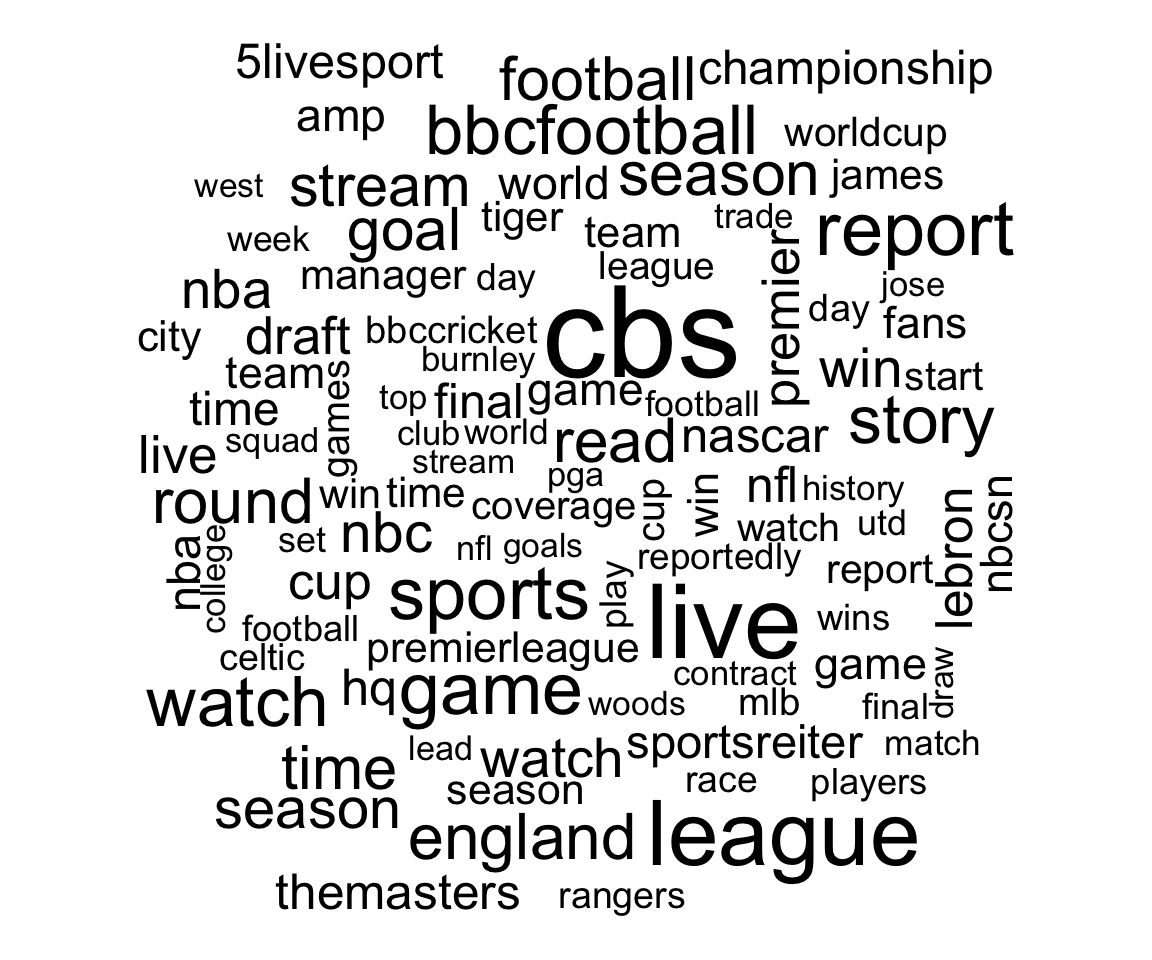
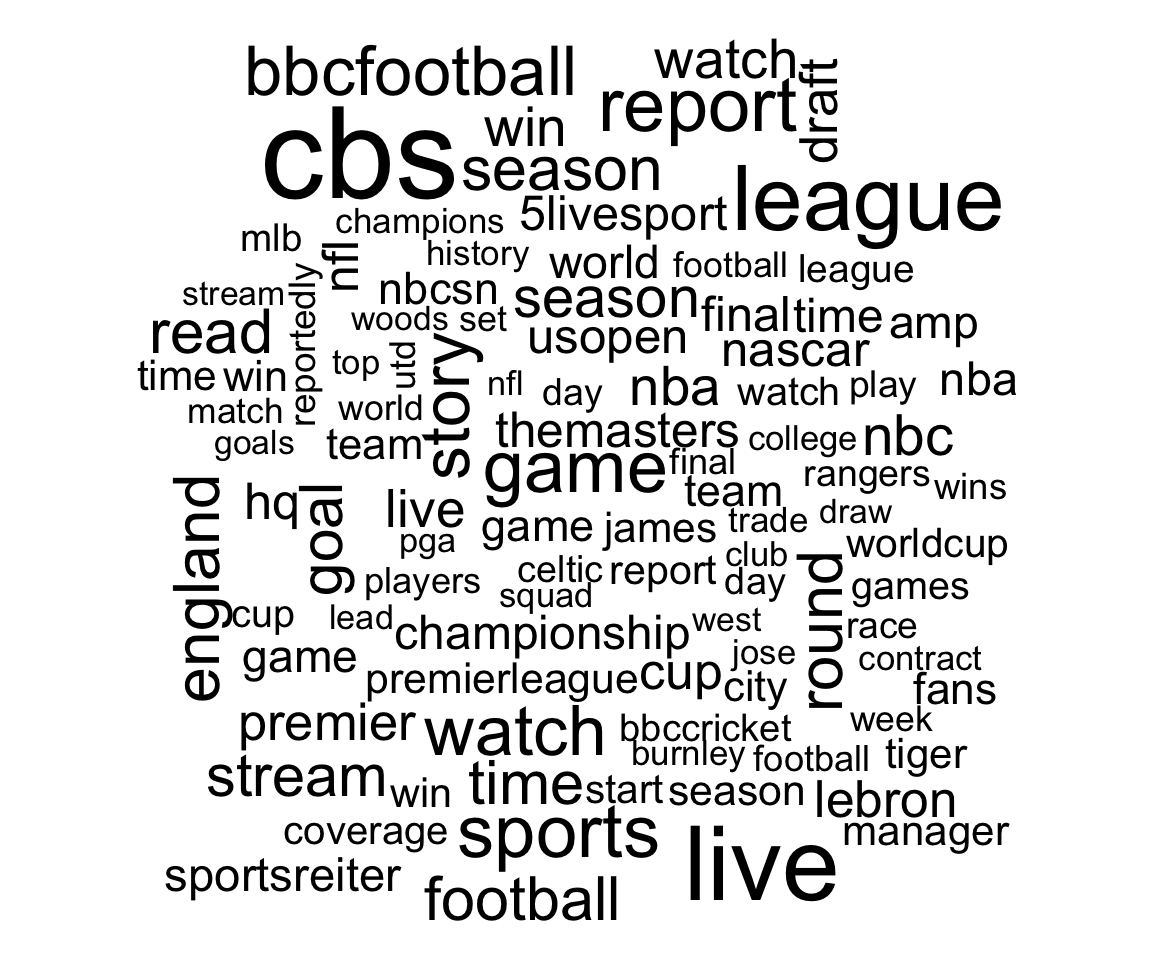
first commit

Changed region(s): [[0.0938, 0.0312, 0.9062, 0.9688]]

diff --git a/portfolio/textminingr/index.html b/portfolio/textminingr/index.html
@@ -419,10 +419,6 @@ sports_sentiments_bing &lt;- timelines_frequency %&gt;%
   count(word) %&gt;%
   with(wordcloud(word, n, max.words = 100))</code></pre>
 <pre><code>## Joining, by = &quot;word&quot;</code></pre>
-<pre><code>## Warning in wordcloud(word, n, max.words = 100): usopen could not be fit on
-## page. It will not be plotted.</code></pre>
-<pre><code>## Warning in wordcloud(word, n, max.words = 100): champions could not be fit
-## on page. It will not be plotted.</code></pre>
 <p><img src="/portfolio/TextMiningR_files/figure-html/unnamed-chunk-14-1.png" width="576" /></p>
 </div>
 </div>

diff --git a/index.html b/index.html
@@ -123,7 +123,7 @@
                           <div class="box-masonry-description">
                             <p>
                                 
-                                  The aim of this workshop is to teach you the basics of how to use R for data processing.
+                                  The aim of this workshop is to teach you the basics of how to use R for text mining, specifically from Twitter.
                                 
                             </p>
                           </div>
